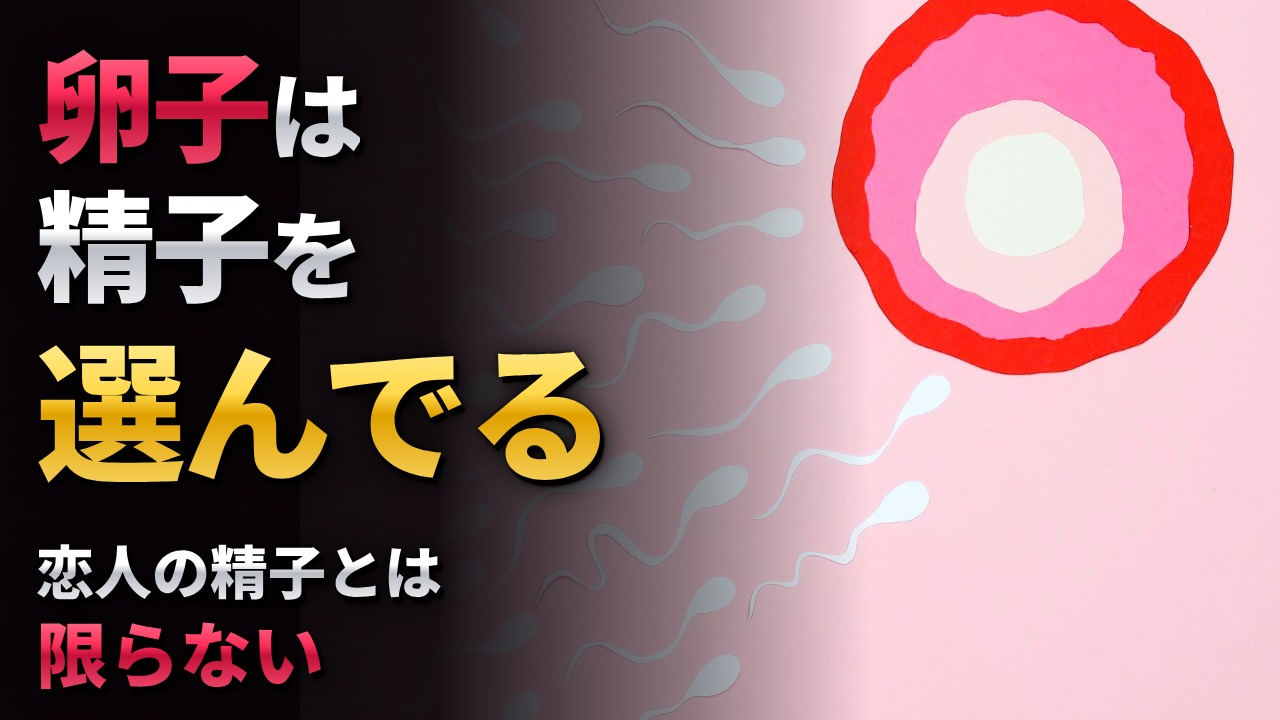
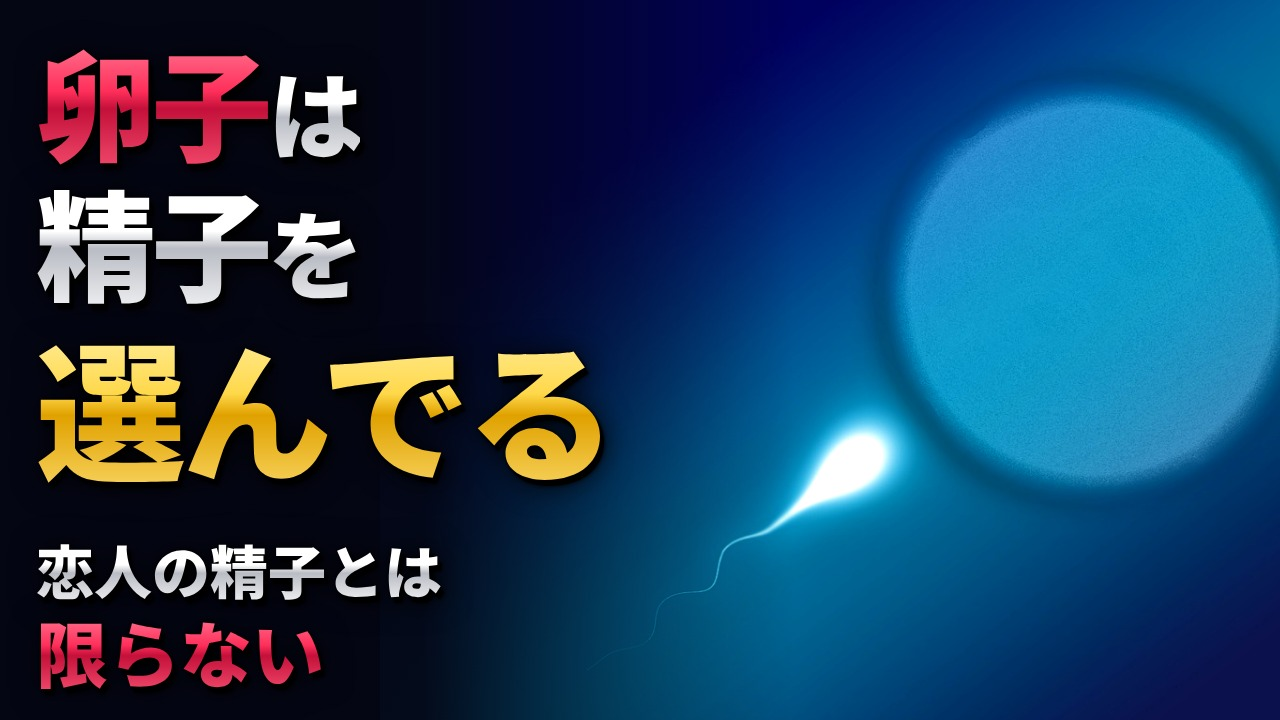
12 サムネ差し替え（Pixabayの青い卵子）。サムネはフリー素材を基本に
Claude-Session: https://claude.ai/code/session_01F9DXnyMM1rdVPBt1VXeibd

diff --git a/sekai/episodes/12_seishi/thumb/t.html b/sekai/episodes/12_seishi/thumb/t.html
@@ -1,6 +1,6 @@
 <html><head><meta charset="utf-8"></head><body style="margin:0;width:1280px;height:720px;overflow:hidden;background:#000;font-family:'Noto Sans CJK JP';font-weight:900">
-<div style="position:absolute;left:300px;top:0;width:980px;height:720px;background:url(../img/T1.jpg) 85% 40%/auto 125%;background-repeat:no-repeat;filter:saturate(1.25) contrast(1.08)"></div>
-<div style="position:absolute;inset:0;background:linear-gradient(90deg,rgba(10,4,8,1) 0%,rgba(10,4,8,.95) 34%,rgba(10,4,8,.45) 54%,rgba(10,4,8,0) 68%)"></div>
+<div style="position:absolute;left:380px;top:-40px;width:1080px;height:800px;background:url(../img/T4.jpg) 0% 50%/auto 100%;background-repeat:no-repeat;filter:saturate(1.2) contrast(1.1) brightness(1.05)"></div>
+<div style="position:absolute;inset:0;background:linear-gradient(90deg,rgba(4,6,20,1) 0%,rgba(4,6,20,.95) 33%,rgba(4,6,20,.4) 50%,rgba(4,6,20,0) 62%)"></div>
 <style>.l{position:absolute;left:36px;white-space:nowrap;line-height:1;letter-spacing:-4px}
 .w{background:linear-gradient(180deg,#fff 0%,#fff 45%,#b9bcc4 55%,#fff 100%);-webkit-background-clip:text;color:transparent}
 .g{background:linear-gradient(180deg,#fff7c2 0%,#ffd84a 45%,#e0a100 55%,#ffe27a 100%);-webkit-background-clip:text;color:transparent}

diff --git a/sekai/CLAUDE.md b/sekai/CLAUDE.md
@@ -61,7 +61,7 @@
 - サムネのHTMLには必ず `<meta charset="utf-8">` を入れる（06で文字化けしたままアップした）。アップ後、編集画面のプレビューで文字が読めるか確認する。raw.githubusercontent はキャッシュされるので、差し替え時はコミットのハッシュ入りURLで取る。
 - **公開時刻（KOH指定 2026-11-23）：本編は毎回17:00に予約する。** ショートは同じ日の20:00（本編より後）。
 - **ショート動画（KOH指定 2026-11-21）：** 新しい本編を投稿するたびに、一番気になる・面白い部分を30秒前後の縦動画にして一緒に投稿する（予約なら本編の公開より後の時刻）。
-- サムネイル：電話番号の確認済み（2026-11-20）。カスタムサムネを使う。作り方は STYLE.md の「サムネイルとタイトル」。サムネ専用の3Dシーン（例：03_kiss/thumb3d.js）を組み、HTMLで文字を重ねる。動画の切り抜きだけで済ませない。
+- サムネイル：電話番号の確認済み（2026-11-20）。カスタムサムネを使う。**背景は基本フリー素材（Pexels・Pixabay・ぱくたそ）の写真・イラストにする（KOH指定 2026-11-23、ほかの人気チャンネルもそうしている）。** 3Dで組むのは合う素材がどうしても無いときだけ。HTMLで文字を重ねる。動画の切り抜きだけで済ませない。素材は見た目が本物っぽいかを確かめる（12で紙工作の赤い卵子を使い「なんでこんな色」と言われた）。
 
 ## チャンネル設定メモ
 - アイコン：「日食の瞳」（黒地に日食の光の輪、瞳が地球）。
